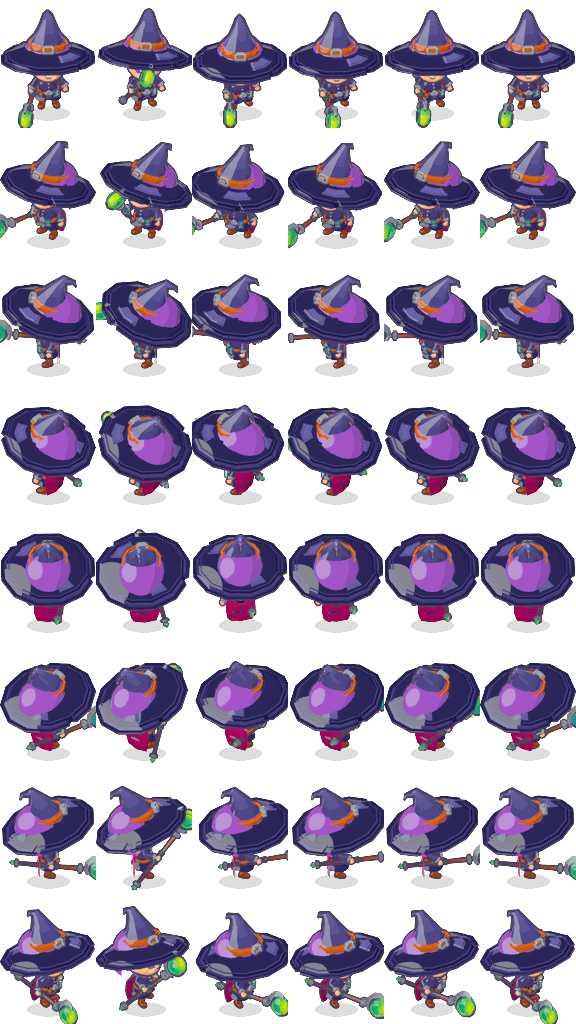
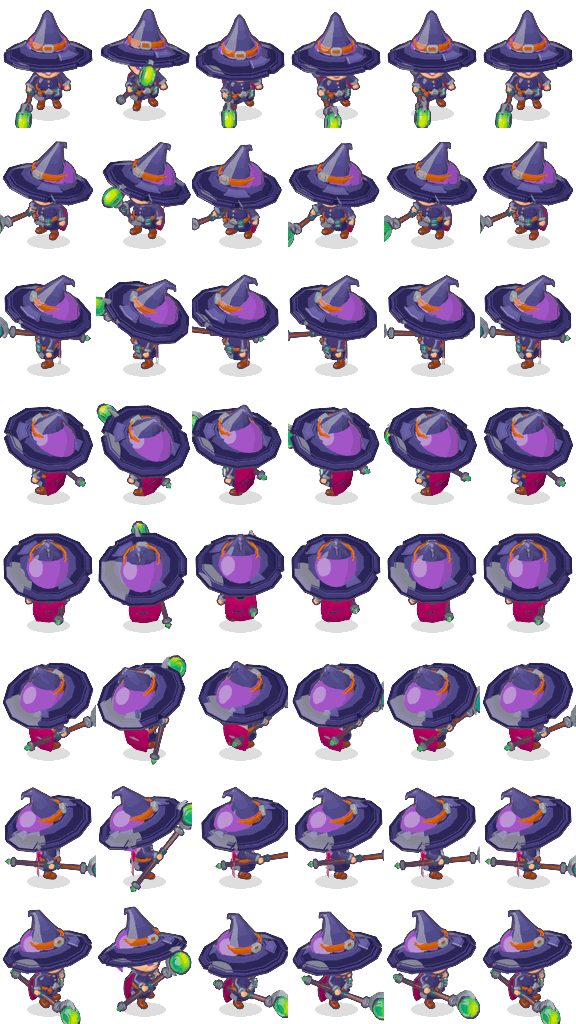
Round 5 integration: exp tests read the rate-scaled payout tables, the hurt-gatherer test sits under the new retreat threshold, the worn-weapon sim label shows the refine, a comment scrubbed for the naming test; mage head scale 1.25 so the hat no longer hides the face (art)

Changed region(s): [[0.0, 0.0312, 1.0, 1.0]]

diff --git a/tests/test_ro_stats.py b/tests/test_ro_stats.py
@@ -96,8 +96,8 @@ def test_kill_pays_the_damage_credit_holder_only():
     w = _credit(_die_monster(w, kind=0), 0, 1)  # slot 1 holds the cumulative-damage credit; slot 0 stands adjacent
     w = _setp(w, 0, kills=1)  # players.kills no longer decides the payout
     out = _run(w)
-    assert _st(out, "base_exp", 1) == S.MONSTER_BASE_EXP[0]
-    assert _st(out, "job_exp", 1) == S.MONSTER_JOB_EXP[0]
+    assert _st(out, "base_exp", 1) == int(S.MONSTER_BASE_EXP_J[0])
+    assert _st(out, "job_exp", 1) == int(S.MONSTER_JOB_EXP_J[0])
     assert _st(out, "base_exp", 0) == 0 and _st(out, "job_exp", 0) == 0
     assert _st(out, "kills_seen", 0) == 1
 
@@ -106,8 +106,8 @@ def test_ranged_kill_pays_from_far_away():
     w = _veteran(_world(active=(3,)), 3)
     w = _credit(_die_monster(w, pos=(200, 200), kind=0), 0, 3)  # corpse 190 cells away: a bolt or an arrow
     out = _run(w)
-    assert _st(out, "base_exp", 3) == S.MONSTER_BASE_EXP[0]
-    assert _st(out, "job_exp", 3) == S.MONSTER_JOB_EXP[0]
+    assert _st(out, "base_exp", 3) == int(S.MONSTER_BASE_EXP_J[0])
+    assert _st(out, "job_exp", 3) == int(S.MONSTER_JOB_EXP_J[0])
 
 
 def test_credit_to_logged_out_player_pays_nobody():
@@ -121,8 +121,8 @@ def test_orc_pays_orc_exp():
     w = _veteran(_world(), 0)
     w = _credit(_die_monster(w, kind=1), 0, 0)
     out = _run(w)
-    assert _st(out, "base_exp") == S.MONSTER_BASE_EXP[1]
-    assert _st(out, "job_exp") == S.MONSTER_JOB_EXP[1]
+    assert _st(out, "base_exp") == int(S.MONSTER_BASE_EXP_J[1])
+    assert _st(out, "job_exp") == int(S.MONSTER_JOB_EXP_J[1])
 
 
 def test_party_members_in_the_same_zone_share_with_bonus():
@@ -133,8 +133,8 @@ def test_party_members_in_the_same_zone_share_with_bonus():
     pt = {**pt, "party_id": pt["party_id"].at[0].set(0).at[1].set(0), "member_count": pt["member_count"].at[0].set(2)}
     w = {**w, "party": pt}
     out = _run(w)
-    base = S.MONSTER_BASE_EXP[1] * 110 // 100
-    job = S.MONSTER_JOB_EXP[1] * 110 // 100
+    base = int(S.MONSTER_BASE_EXP_J[1]) * 110 // 100
+    job = int(S.MONSTER_JOB_EXP_J[1]) * 110 // 100
     assert _st(out, "base_exp", 0) == base // 2 + base % 2 and _st(out, "base_exp", 1) == base // 2
     assert _st(out, "job_exp", 0) == job // 2 + job % 2 and _st(out, "job_exp", 1) == job // 2
 

diff --git a/tests/test_ro_exp_credit.py b/tests/test_ro_exp_credit.py
@@ -63,8 +63,8 @@ def test_fire_bolt_kill_from_range_pays_exp_and_ryn_to_the_caster():
              "tick": w["tick"] + 1}
         w = run(w, _inputs())
     assert not bool(w["monsters"]["active"][MON]), "the bolt should have killed the 1-hp Blobbin"
-    assert int(w["stats"]["base_exp"][CASTER]) == S.MONSTER_BASE_EXP[0]
-    assert int(w["stats"]["job_exp"][CASTER]) == S.MONSTER_JOB_EXP[0]
+    assert int(w["stats"]["base_exp"][CASTER]) == int(S.MONSTER_BASE_EXP_J[0])
+    assert int(w["stats"]["job_exp"][CASTER]) == int(S.MONSTER_JOB_EXP_J[0])
     assert int(w["stats"]["base_exp"][OTHER]) == 0  # the adjacent bystander gets nothing
     assert int(w["items"]["ryn"][CASTER]) > 0 and int(w["items"]["ryn"][OTHER]) == 0
     assert int((w["drops"]["item"] == ITEM_GOLD_COIN).sum()) == 0  # the ryn went to the caster, not the ground

diff --git a/tests/test_ro_craft_policy.py b/tests/test_ro_craft_policy.py
@@ -191,7 +191,7 @@ def test_hurt_gatherer_uses_percent_of_derived_max_hp():
     w = make_world((C0, C0), nodes=[(0, C.NODE_COPPER, C0 + 1, C0)], fields={0: (C0 + 1, C0)})
     mx = int(ro_stats.derived(w)["max_hp"][G])
     pl = w["players"]
-    low = {**w, "players": {**pl, "hp": pl["hp"].at[G].set(mx * 40 // 100)}}
+    low = {**w, "players": {**pl, "hp": pl["hp"].at[G].set(mx * 10 // 100)}}  # under RETREAT_PCT (15% since round 5)
     out = run(low)
     assert not bool(out["gather"][G]) and not bool(out["craft_busy"][G])
     full = {**w, "players": {**pl, "hp": pl["hp"].at[G].set(mx)}}

diff --git a/game/data/items.py b/game/data/items.py
@@ -356,7 +356,7 @@ def _icon(r):
     if kind == KIND_CONSUMABLE:
         return "item.potion_red"
     words = set(name.replace("-", " ").split())
-    if any(w in words or (" " in w and w in name) for w in _ORE_WORDS):  # whole words: "spore" is not "ore"
+    if any(w in words or (" " in w and w in name) for w in _ORE_WORDS):  # whole words: "mushroom cap" is not "ore"
         return "item.ore"
     return "item.etc"
 

diff --git a/client/docs/lessons_learned.md b/client/docs/lessons_learned.md
@@ -194,6 +194,8 @@ The full story is in `docs/lessons/ops_board.md` (VoxelSpace ops board: 20 commi
 | A face decal bone-parented to the head and shrink-wrapped with PROJECT along "local Y" shot along the bone instead of at the face, so the plane stayed flat and stuck out as a nose in side views (round 3, ro3-art) | A bone-parented child's local axes are the bone's; use NEAREST_SURFACEPOINT (direction-free) for decals, and check a W/E view, not only S. |
 | A procedural hair cap shrink-wrapped to a KayKit head landed between the skull and the model's own hair shell, so only the spikes showed; a cap shrink-wrapped to a head without a shell (Rogue) was fine (round 3, ro3-art) | Build the cap as an ellipsoid over the head's bounding box (outside the whole head volume) and only then style it; test every source head, not one. |
 | Item icons of KayKit weapons rendered as thin slivers: the camera fit was built for standing figures (height-based) and a sword lies sideways at the hand in the rest pose (round 3, ro3-art) | Static props use `center: true` (bounds centre on the origin) and a fit on the largest extent; look at the icon strip at 2x before repointing slots. |
+| Props on a flat TileMapLayer drew under every character, so a player north of a tree stood "in front" of it; a first fix as a PropLayer of nodes was written before the simpler route was seen (round 4, ro3-art) | Godot 4 nested y-sort: y_sort_enabled on the common parent, on MapRenderer (z -1) and on its Props child (absolute z 0), per-prop `y_sort_origin` = base - feet offset, entity sprites at z 0. Check the engine's own feature before adding a layer. |
+| The RAM guard blocked a Monitor whose command text merely contained the engine's name while counting its processes (round 4, ro3-art) | Match on a substring of the executable that is not the guarded word (`stable_win64`), or count from PowerShell. |
 | Blender 5.0 slotted actions have no `action.fcurves`; the chibi head-scale code crashed every render until the channelbag API was used (round 3, ro3-art) | Walk `action.layers[].strips[].channelbags[].fcurves` (and `action.fcurves` when it exists); the runner retries, so a scripted exception shows up as "225 frames missing", read the log. |
 | Card bonuses were summed by `ro_items.equipped()["card_bonus"]` since M3 but nothing read them: neither `ro_stats.derived` nor combat applied a card, so every compounded card did nothing in the tick; tests only checked the sum (round 4, ro4-cards) | Every cross-system read needs one test that a consumer changes behaviour (a card changes `derived` or damage), not only that the producer sums right. |
 | The contract asked for the card album on the A key, but A is WASD walk-left in `player_input.gd` (round 4, ro4-cards) | Grep `_key(KEY_` in `game/input/` before assigning a panel key; the album uses Alt+A (RO-style Alt window keys). |
